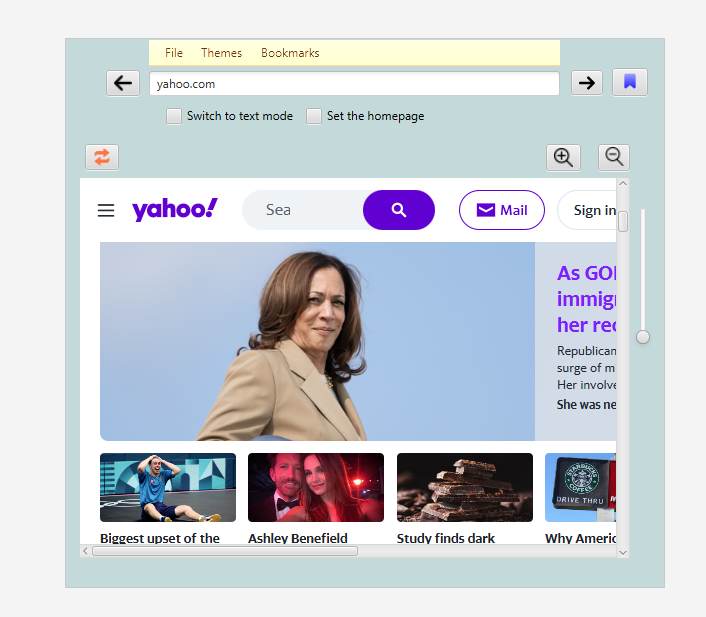
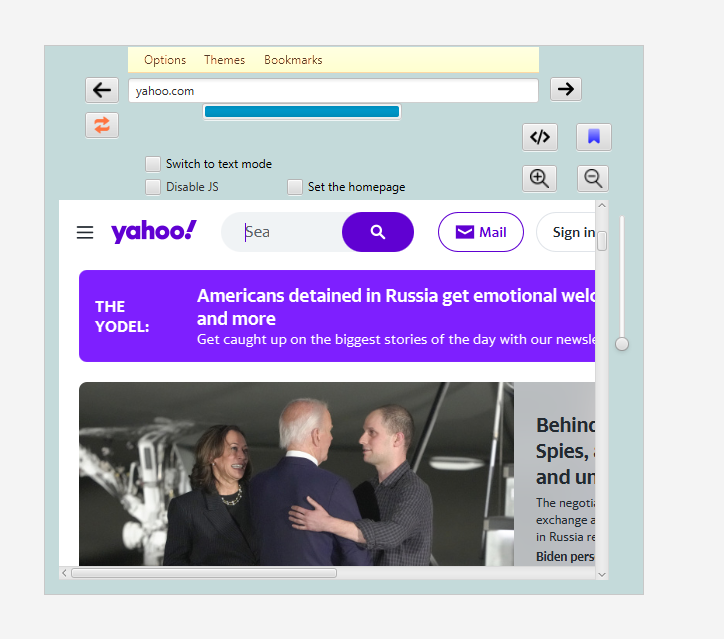
progress bar added.

diff --git a/src/main/java/com/browser/browserapplication/BrowserMethods.java b/src/main/java/com/browser/browserapplication/BrowserMethods.java
@@ -1,11 +1,11 @@
 package com.browser.browserapplication;
 
-import javafx.scene.control.Button;
-import javafx.scene.control.CheckBox;
-import javafx.scene.control.TextArea;
-import javafx.scene.control.TextField;
-import javafx.scene.image.Image;
+import javafx.beans.value.ChangeListener;
+import javafx.beans.value.ObservableValue;
+import javafx.concurrent.Worker;
+import javafx.scene.control.*;
 import javafx.scene.image.ImageView;
+import javafx.scene.text.Font;
 import javafx.scene.web.WebEngine;
 import javafx.scene.web.WebView;
 import javafx.stage.FileChooser;
@@ -32,8 +32,8 @@ public class BrowserMethods {
 
 
 
-    public void startBrowsing(List<String> addreslist, TextField addField, CheckBox switchTxt, TextArea txtView, WebView webView) {
-        String address = "http://www."+addField.getText();
+    public void startBrowsing(List<String> addreslist, TextField addField, CheckBox switchTxt, TextArea txtView, WebView webView, ProgressBar loadingBar) {
+        String address = "http://"+addField.getText();
 
         if (switchTxt.isSelected())
         {
@@ -46,10 +46,12 @@ public class BrowserMethods {
             String pageText = (String) webView.getEngine().executeScript("document.documentElement.innerText");
 
 
-
+            txtView.setFont(Font.font("Verdana",14));
             txtView.appendText(pageText);
             addreslist.add(address);
             listI = listI +1;
+            checkIsFullyLoaded(webView,loadingBar);
+
         }
 
         else if (!switchTxt.isSelected())
@@ -59,6 +61,9 @@ public class BrowserMethods {
                 address= address.replace("www.","");
             }
 
+            checkIsFullyLoaded(webView,loadingBar);
+
+
             //getPageTitle(webView);
 
             addreslist.add(address);
@@ -67,12 +72,39 @@ public class BrowserMethods {
 
 
 
-            System.out.println(addreslist);
-
-
-
         }
     }
+
+
+    //metodi tarkastaa, että sivu on kokonaan ladattua ja vasta sitten antaa progressbarin arvon 1.0
+    //eli porgress bar on "päässyt perille"
+public void checkIsFullyLoaded(WebView webView, ProgressBar loadingBar) {
+
+
+        webView.getEngine().getLoadWorker().stateProperty().addListener(
+
+                new ChangeListener<Worker.State>() {
+
+                    @Override
+
+                    public void changed(
+                            ObservableValue<? extends Worker.State> observable,
+                            Worker.State oldValue, Worker.State newValue ) {
+
+                        //succeeded tarkoittaa sivun latautuneen.
+                        if( newValue != Worker.State.SUCCEEDED ) {
+
+                            return;
+                    }
+
+
+                        loadingBar.setProgress(1.0);
+                }
+            } );
+
+
+}
+
     public void executePrevious(List<String> addreslist, WebView webView) {
         listI-=1;
         System.out.println(listI);
@@ -129,33 +161,36 @@ public class BrowserMethods {
         writer.close();
     }
 
-    public void htmlStructure(WebEngine webEngine, TextArea txtView, WebView webView, TextField addField, int clicks, Button debugBtn, ImageView sourceImg) {
+    public void htmlStructure(WebEngine webEngine, TextArea txtView, WebView webView, TextField addField, int clicks, Button debugBtn, ImageView sourceImg, TextField searchField, Button findBtn) {
         System.out.println(clicks);
 
 
-        if (clicks%1==0)
+        if (clicks%2==0)
         {
+            txtView.clear();
+            txtView.setOpacity(0.0);
+            webView.setOpacity(1.0);
+            searchField.setOpacity(0.0);
+            findBtn.setOpacity(0.0);
 
+
+        }
+        else {
+            txtView.clear();
             String url = "http://"+addField.getText();
             webEngine.load(url);
             String pageText = (String) webEngine.executeScript("document.documentElement.outerHTML");
             txtView.setOpacity(1.0);
             webView.setOpacity(0.0);
             txtView.setMinHeight(250);
+            searchField.setOpacity(1.0);
+            findBtn.setOpacity(1.0);
             //sourceImg.setImage(new Image("..\\..\\..\\icons\\undo.png"));
-
-
-
             txtView.appendText(pageText);
 
-        }
-        if (clicks %2==0)
-        {   txtView.clear();
-            txtView.setOpacity(0.0);
-            webView.setOpacity(1.0);
-
 
         }
+
 
 
     }

diff --git a/src/main/java/com/browser/browserapplication/BrowserController.java b/src/main/java/com/browser/browserapplication/BrowserController.java
@@ -7,6 +7,7 @@ import javafx.fxml.FXML;
 import javafx.scene.Scene;
 import javafx.scene.control.*;
 import javafx.scene.image.ImageView;
+import javafx.scene.input.InputMethodHighlight;
 import javafx.scene.input.KeyCode;
 import javafx.scene.input.KeyEvent;
 import javafx.scene.layout.AnchorPane;
@@ -44,7 +45,7 @@ public class BrowserController {
     public WebView webView;
 
     @FXML
-    public TextField addField, colCode;
+    public TextField addField, colCode,searchField;
 
     @FXML
     public Stage stage;
@@ -56,13 +57,16 @@ public class BrowserController {
     public VBox Vb;
 
     @FXML
+    public  ProgressBar loadingBar;
+
+    @FXML
     public TextArea txtView;
 
     @FXML
     public CheckBox switchTxt, startPageCB,disablejs;
 
     @FXML
-    public Button debugBtn;
+    public Button debugBtn,findBtn;
 
     @FXML
     public ImageView sourceImg;
@@ -78,6 +82,8 @@ public class BrowserController {
     WebHistory history = webEngine.getHistory();
 
 
+
+
     Bookmarks bom = new Bookmarks();
 
 
@@ -88,7 +94,8 @@ public class BrowserController {
     public void initialize() throws IOException, SQLException {
         slider.setMin(0);
         slider.setMax(10);
-        slider.valueProperty().addListener(new ChangeListener<Number>() {
+        //slider komponentin koodi, jolla kasvatetaan ja pienennetään sliderin arvoa.
+        slider.valueProperty().addListener(  new ChangeListener<Number>() {
 
             public void changed(ObservableValue<? extends Number>
                                         observable, Number oldValue, Number newValue) {
@@ -134,7 +141,8 @@ public class BrowserController {
     }
 
     public void goPage(ActionEvent actionEvent) {
-        bm.startBrowsing(addreslist, addField, switchTxt, txtView, webView);
+
+        bm.startBrowsing(addreslist, addField, switchTxt, txtView, webView,loadingBar);
 
     }
 
@@ -160,6 +168,7 @@ public class BrowserController {
     //funtio suoritetaan jos osoitekentän ollessa aktiivisena painetaan enteriä.
     public void goPageEnter(KeyEvent keyEvent) {
         if (keyEvent.getCode() == KeyCode.ENTER) {
+            loadingBar.setProgress(0.0);
             //parametrillista funktiota voi kutsua myös ilman parametria antmalla arvoksi null
             goPage(null);
 
@@ -195,6 +204,7 @@ public class BrowserController {
         if (switchTxt.isSelected()) {
             webView.setOpacity(0.0);
             txtView.setOpacity(1.0);
+
             //muutetaan teksilaatikon korkeutta,
             txtView.setMinHeight(200);
 
@@ -202,6 +212,8 @@ public class BrowserController {
         } else {
             webView.setOpacity(1.0);
             txtView.setOpacity(0.0);
+            searchField.setOpacity(0.0);
+
         }
 
     }
@@ -292,7 +304,7 @@ public class BrowserController {
 
     public void debugger(ActionEvent event) {
         clicks+=1;
-        bm.htmlStructure(webEngine,txtView,webView,addField,clicks,debugBtn,sourceImg);
+        bm.htmlStructure(webEngine,txtView,webView,addField,clicks,debugBtn,sourceImg,searchField,findBtn);
 
 
 
@@ -317,6 +329,16 @@ public class BrowserController {
         else{
             webView.getEngine().setJavaScriptEnabled(true);
         }
+
+
+    }
+
+
+    public void findText(ActionEvent event) {
+
+        String find = searchField.getText();
+        String text = txtView.getText();
+        System.out.println(text.indexOf(find));
 
 
     }

diff --git a/src/main/java/com/browser/browserapplication/Zoom.java b/src/main/java/com/browser/browserapplication/Zoom.java
@@ -26,3 +26,5 @@ public class Zoom {
 
 
 
+
+

diff --git a/README.md b/README.md
@@ -3,11 +3,24 @@ Project keywords: Java, Lynx clone, webbrowser clone, WebView,MySQL
 This program emulates two types of programs, a modern web browser and a Lynx-style browser that only displays
 the text of the web page the user is looking for.
 
+WebView
 ![UI.png](UI.png)
+
+Text View
+
+![txtview.png](txtview.png)
 
 
 
 MAIN FEATURES
+
+UI & UX
+
+The user interface is made with Gluon's SceneBuilder. Most of the buttons have 16 and 24 pixel icons and the icons
+are downloaded from www.flaticon.com. The user interface has a progress bar that fills only when the page has fully loaded. 
+the loading of the page is controlled by the Worker State object. The idea behind this is to give the user a visual idea 
+that the page is completely ready to use.
+
 
 WebView Browser
 
